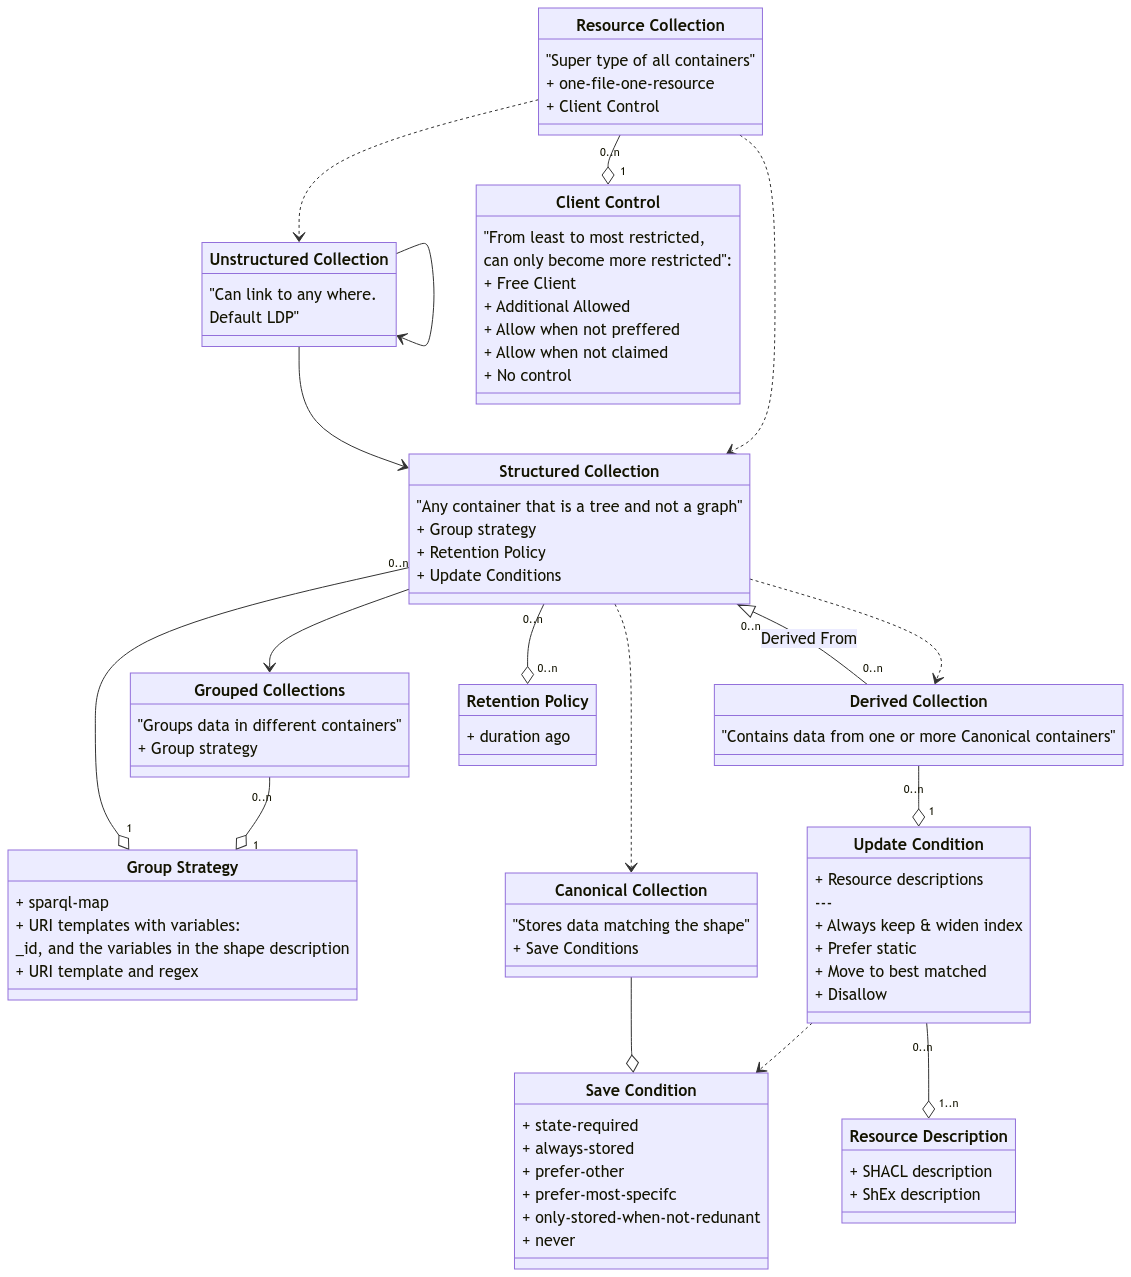
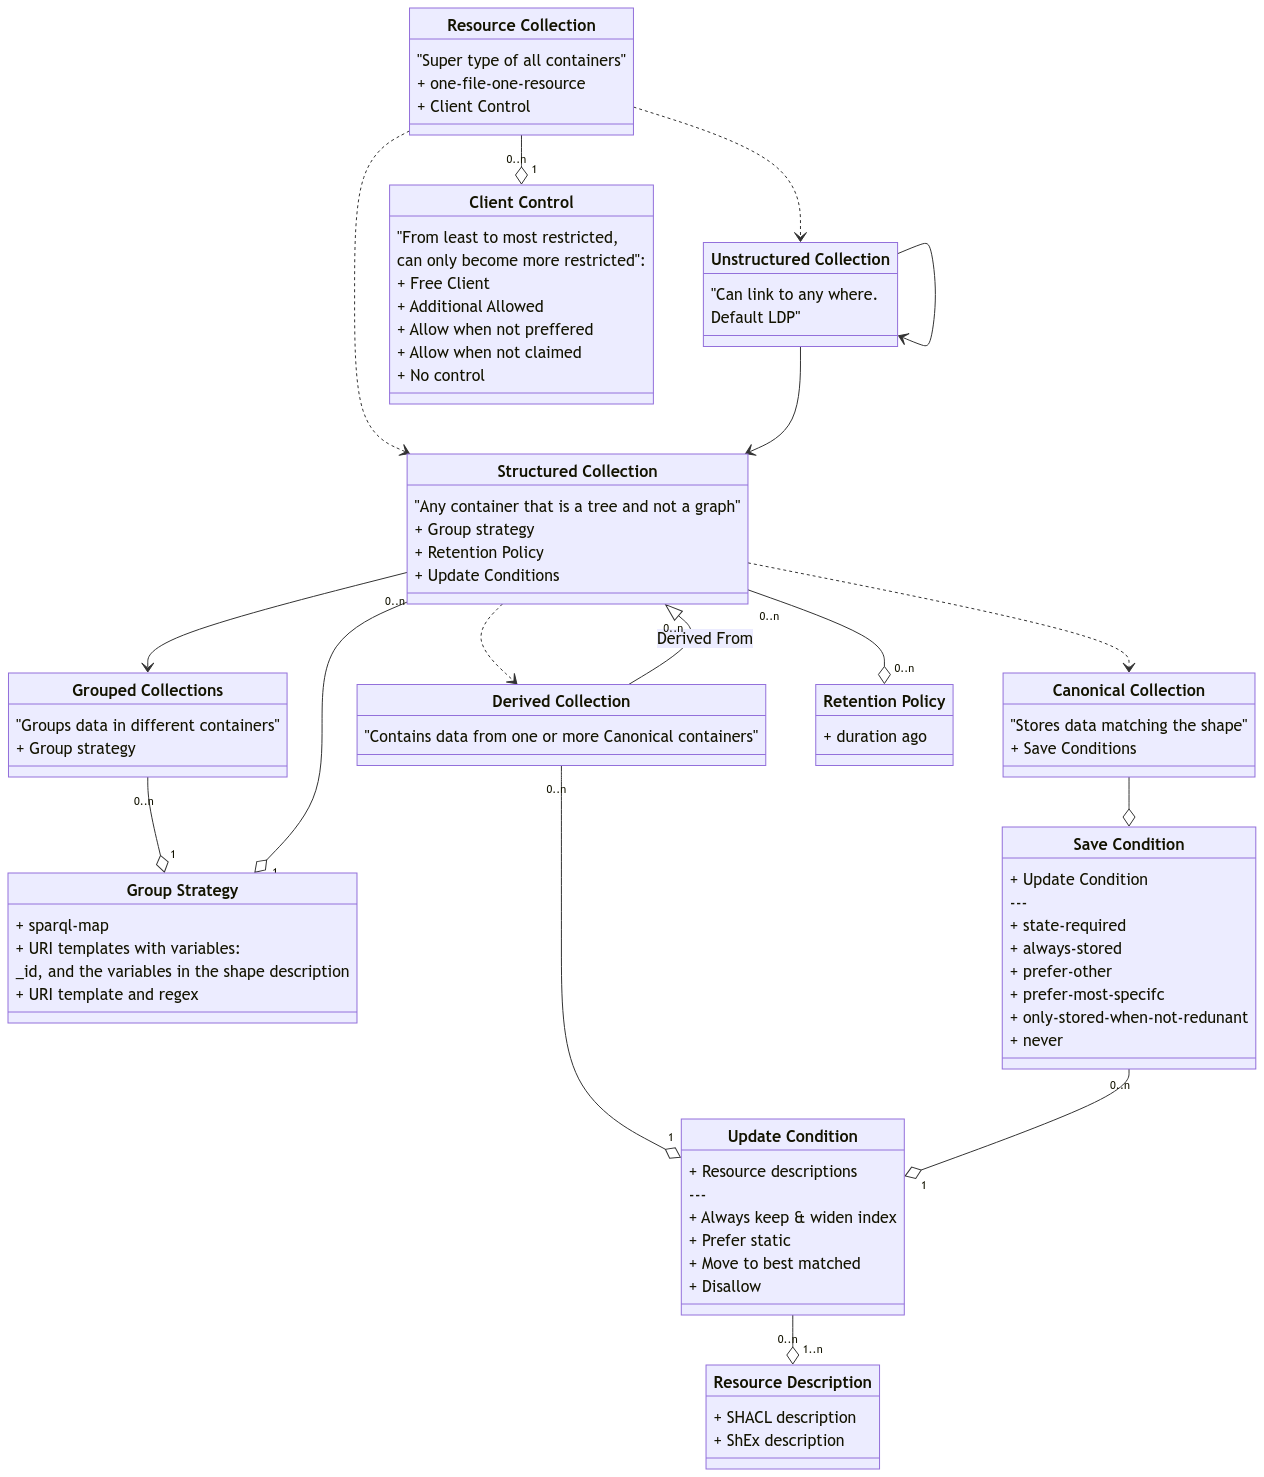
update achievements

Changed region(s): [[0.0, 0.0, 1.0, 1.0], [0.7427, 0.8551, 0.8974, 0.9773]]

diff --git a/achievements/index.md b/achievements/index.md
@@ -8,4 +8,5 @@ title: Achievements
 3. [Write shape descriptions for SolidBench (Local)](https://github.com/jitsedesmet/SolidBench.js/blob/feat/add-shapes/shape-descriptions.ttl)
 4. [Write storage guidance vocabulary, sgv (WIP)](../solution/storage-guidance-vocabulary/index.md)
 5. [Fix multiple fragmentation strategies](https://github.com/SolidBench/rdf-dataset-fragmenter.js/pull/26)
-6. [Write thesis report](../solution/report.pdf)
+6. [Implement SGV wrapper for Comunica](https://github.com/jitsedesmet/sgv-update-engine)
+7. [Write thesis report](../solution/report.pdf)

diff --git a/solution/storage-guidance-vocabulary/index.md b/solution/storage-guidance-vocabulary/index.md
@@ -109,9 +109,10 @@ classDiagram
     "Contains data from one or more Canonical containers"
   }
 
-  UCond ..> SaveCond
   CC --o SaveCond
   class SaveCond["Save Condition"] {
+    + Update Condition
+    ---
     + state-required
     + always-stored
     + prefer-other
@@ -132,6 +133,7 @@ classDiagram
   }
 
   DC "0..n" --o "1" UCond
+  SaveCond "0..n" --o "1" UCond
   class UCond["Update Condition"] {
     + Resource descriptions
     ---
